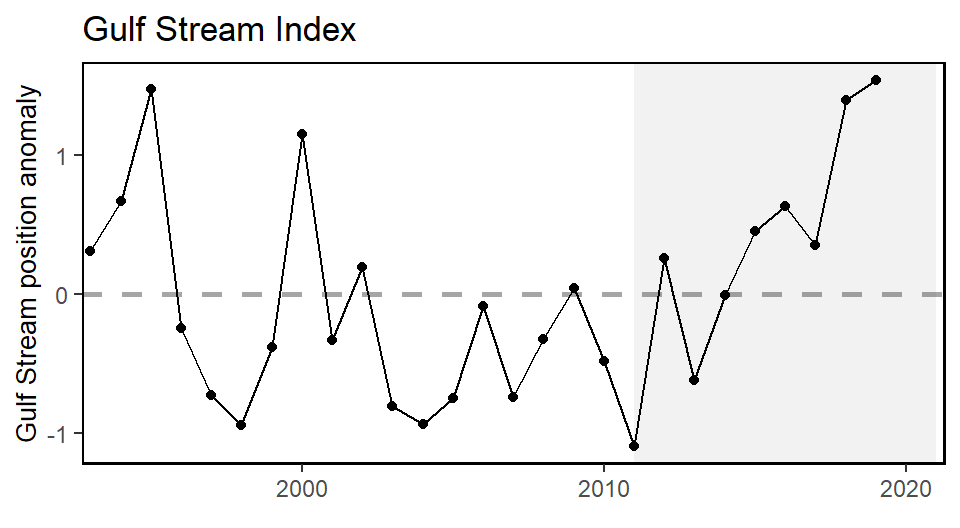
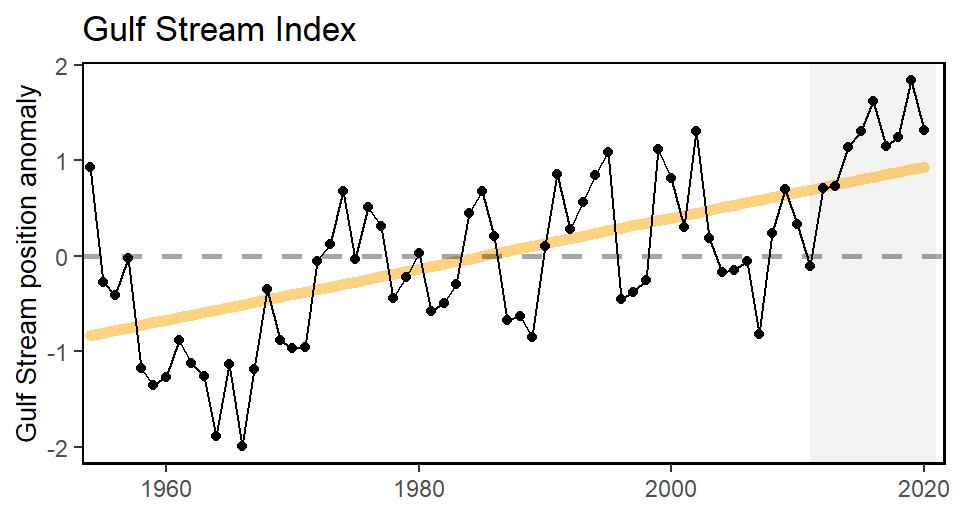
update gsi with long time series

diff --git a/docs/LTL_MAB.html b/docs/LTL_MAB.html
@@ -776,7 +776,6 @@ Average annual sea surface temperature (SST) over the Northeast US Shelf.
 </div>
 <div id="gsi" class="section level3">
 <h3>GSI</h3>
-<p><a href="https://docs.google.com/document/d/1SgZ9m4pal3ygKnUSYr4UwgOoMJeaKzpO/edit">Notes</a></p>
 <div class="figure" style="text-align: center">
 <img src="docs/images/gsi-1.png" alt="Index representing the north wall  of the Gulf Stream. Positive values represent a more northerly Gulf Stream position." width="480" />
 <p class="caption">
